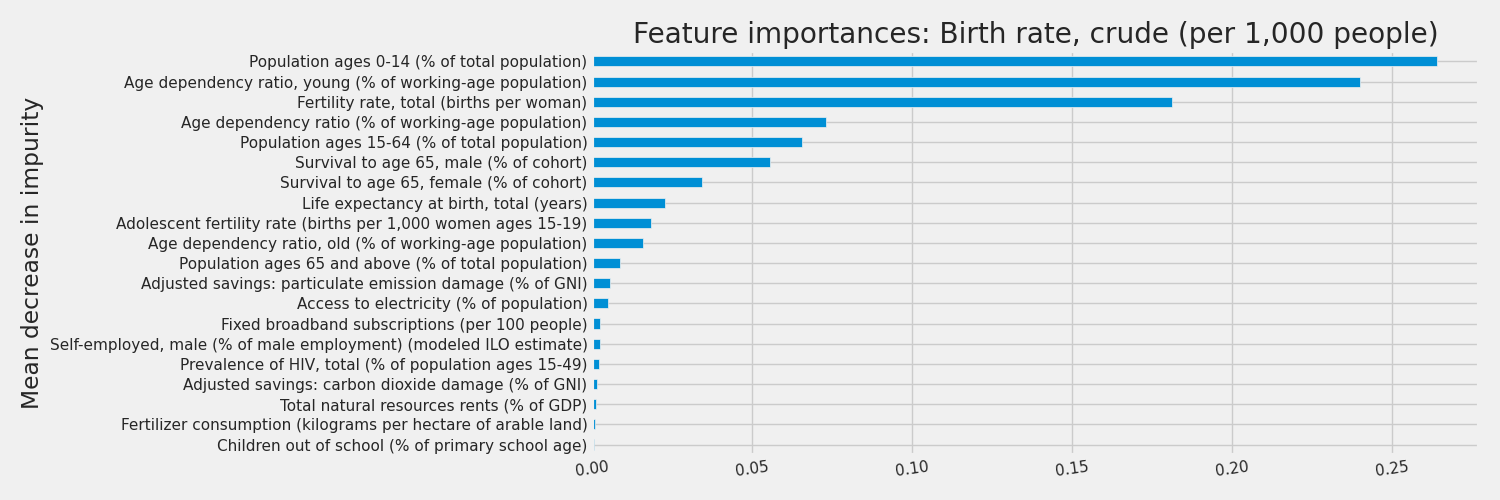
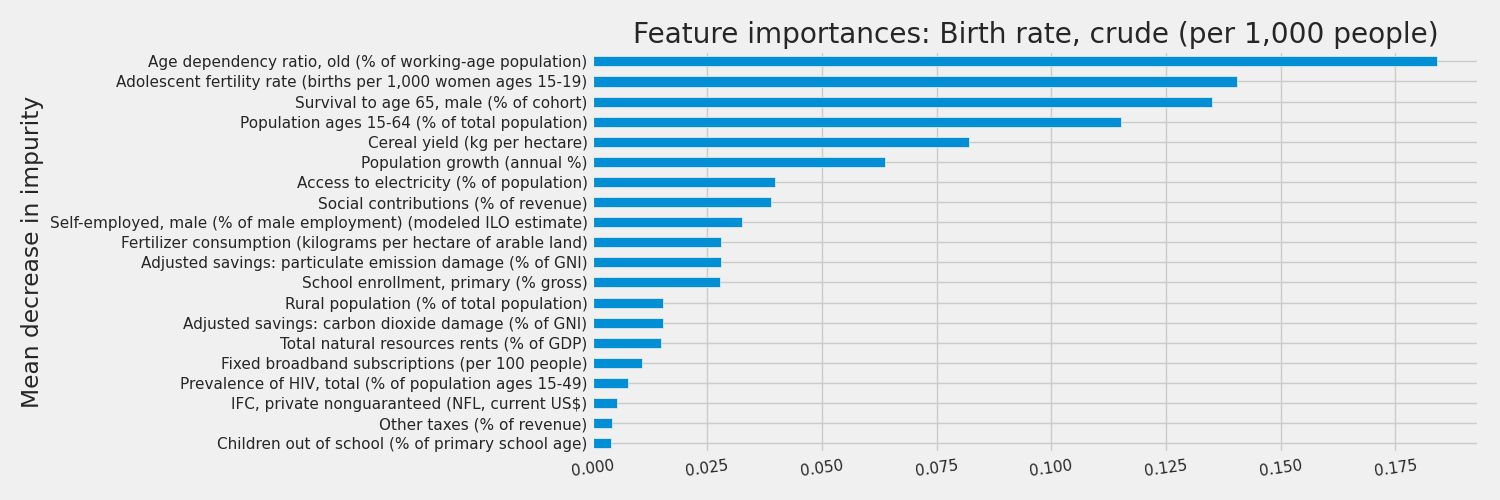
add secundary metric: zone

Changed region(s): [[0.0, 0.09, 0.9813, 0.96], [0.0, 0.48, 0.0307, 0.66], [0.0, 0.21, 0.0307, 0.39]]

diff --git a/src/explainability.py b/src/explainability.py
@@ -19,23 +19,16 @@ from sklearn.ensemble import RandomForestRegressor,GradientBoostingClassifier
 import xgboost as xgb
 
 import postprocess 
+import constants
 
-NUM_OF_FEATURES_TO_PLOT=20
 
 import math
-
+import model
+import json
+import utils
 
 def generate_feature_importance_images(target, X_train, X_test, Y_train, Y_test):
-    clf = xgb.XGBRegressor(objective ='reg:squarederror', colsample_bytree = 0.3, learning_rate = 0.05,
-                    max_depth = 5, alpha = 10, n_estimators = 300)
-    # fit the model
-    clf.fit(X_train,Y_train)
-
-
-    feature_importances = pd.Series(clf.feature_importances_, index=X_train.columns)
-    
-
-    feature_importances= feature_importances[feature_importances!=0].sort_values(ascending=False)[:NUM_OF_FEATURES_TO_PLOT].sort_values()
+    clf, feature_importances = model.get_feature_importances(X_train, Y_train)
 
     logger.info(f'{target} score: ' + str (clf.score(X_test,Y_test)))
     fig, ax = plt.subplots()
@@ -52,63 +45,76 @@ def generate_feature_importance_images(target, X_train, X_test, Y_train, Y_test)
     return clf,feature_importances
 
 
-TARGETS =  [ "Birth rate, crude (per 1,000 people)",
+
+
+
+TARGETS =  ["Inflation, consumer prices (annual %)",  "Pump price for diesel fuel (US$ per liter)",
+"Birth rate, crude (per 1,000 people)", "Researchers in R&D (per million people)", 
+    "Time required to build a warehouse (days)",
+    "Wage and salaried workers, total (% of total employment) (modeled ILO estimate)","Rural population (% of total population)", 
+  
     "Unemployment, total (% of total labor force) (modeled ILO estimate)", 
  "GDP per capita (constant LCU)" ,
- "Inflation, consumer prices (annual %)" ,
+
  "Self-employed, total (% of total employment) (modeled ILO estimate)" ,
   ]
 
 country="ESP"
+dict_features_to_consider = {}
+try :
+    dict_features_to_consider = postprocess.get_dict_features_to_consider()
+except: pass 
+    
 
 for target in TARGETS : 
     df = postprocess.process_df_target(target)
     logger.info(f"Shape: {df.shape} for:  {target} ")
 
-    Xtrain = df.drop(columns=target,axis=1)
-    Ytrain = df[target]
-    X_train,X_test,Y_train,Y_test = train_test_split(Xtrain,Ytrain,test_size=0.3,random_state=1200)
-   
-    clf,feature_importances = generate_feature_importance_images(target, X_train, X_test, Y_train, Y_test)
+    # Xtrain = df_feature_importances.drop(columns=target,axis=1) if target in df_feature_importances.columns else df_feature_importances
+ 
+    if target in dict_features_to_consider: 
+        features_to_consider = dict_features_to_consider[target]
+    else: 
+        features_to_consider = postprocess.calculate_features_consider( target )
 
 
-
-    features_to_consider = list(feature_importances.to_dict().keys())
-
+    df_feature_importances = postprocess.process_df_target(target)
     serie_to_explain = postprocess.get_enriched_estimation_to_explain(country,features_to_consider)
 
-    features_to_consider.append(target)
-    df_feature_importances = postprocess.process_df_target(target)[features_to_consider]
-    Xtrain = df_feature_importances.drop(columns=target,axis=1)
+   
+    Xtrain = df_feature_importances[features_to_consider]
     Ytrain = df_feature_importances[target]
-    X_train,X_test,Y_train,Y_test = train_test_split(Xtrain,Ytrain,test_size=0.3,random_state=1200)
-    clf,feature_importances = generate_feature_importance_images(target, X_train, X_test, Y_train, Y_test)
+    #X_train,X_test,Y_train,Y_test = train_test_split(Xtrain,Ytrain,test_size=0.3,random_state=1200)
+    clf = model.get_model(Xtrain, Ytrain)
 
+    df_means = pd.read_csv("data/df_means.csv")
+    zone = utils.get_country_data(country)["Region"]
+    df_zone = df_means.query( " `Zone` == @zone ").drop("Zone",axis=1)
+    zone_features = df_zone[features_to_consider].to_dict(orient="records")[0]
     shap.initjs()
     explainer = shap.TreeExplainer(clf) 
-    shap_values = explainer.shap_values(X_train)
+    shap_values = explainer.shap_values(Xtrain)
 
-    #clf.predict(serie_to_explain)
-    clf_expected_value = clf.predict(pd.DataFrame([serie_to_explain.to_dict()]))    
-    shap_values = explainer.shap_values(pd.DataFrame([serie_to_explain.to_dict()]))
+
+    #clf_expected_value = clf.predict(pd.DataFrame([serie_to_explain.to_dict()]))    
+    shap_values = explainer.shap_values(pd.DataFrame([serie_to_explain.to_dict(),zone_features]))
 
     shap.decision_plot(explainer.expected_value, 
-            shap_values[0,:],serie_to_explain,  highlight=0, title=target,
+            shap_values,serie_to_explain,  
+            highlight=0, title=f"Predictors for estimating: {target}, {country}",
             feature_names = np.array (serie_to_explain.index),
+            legend_labels=[country,zone],legend_location='lower right',
             auto_size_plot=True, link = "identity",
-            feature_display_range=slice(None, -1 * NUM_OF_FEATURES_TO_PLOT, -1 )) 
+            feature_display_range=slice(None, -1 * constants.NUM_OF_FEATURES_TO_PLOT, -1 )) 
     a = 0   
-# shap.decision_plot(explainer.expected_value, 
-#         shap_values[0,:],X_train.iloc[0,:],  highlight=0, title=target,
-#         feature_names = np.array (X_train.iloc[0,:].index),
-#         auto_size_plot=True, link = "identity",
-#         feature_display_range=slice(None, -1 * NUM_OF_FEATURES_TO_PLOT, -1 )) 
+
+
         
-plt.title(target)
-plt.show()
+# plt.title(target)
+# plt.show()
 
 
-force_plot_html = shap.force_plot(explainer.expected_value, shap_values[0,:], X_train.iloc[0,:]).html()
-shap_html = f"<head>{shap.getjs()}</head><body>{force_plot_html}</body>"
+# force_plot_html = shap.force_plot(explainer.expected_value, shap_values[0,:], X_train.iloc[0,:]).html()
+# shap_html = f"<head>{shap.getjs()}</head><body>{force_plot_html}</body>"
 
 

diff --git a/src/postprocess.py b/src/postprocess.py
@@ -7,6 +7,7 @@ import seaborn as sns
 sns.set(rc={'figure.figsize':(15,5)})
 plt.style.use('fivethirtyeight')
 from loguru import logger
+import json
 
 ######----------For Feature Selection and Modeling
 from sklearn.feature_selection import SelectFromModel
@@ -18,9 +19,9 @@ import shap
 from sklearn.ensemble import RandomForestRegressor,GradientBoostingClassifier
 import xgboost as xgb
 import math
-
-
-NUM_OF_FEATURES_TO_PLOT=20
+import model
+import utils
+from tqdm import tqdm                                                                                                                                                                                                                                                                                                                                                                                                                                                                                                                                                                                              
 
 def get_preprocessed_df() -> pd.DataFrame :
     df = pd.read_csv("data/df_all.csv")
@@ -75,3 +76,136 @@ def process_df_target(target):
         df[column].fillna(int(df[column].mean()), inplace=True)
 
     return df
+
+
+
+TARGETS =  [ "Birth rate, crude (per 1,000 people)",
+    "Unemployment, total (% of total labor force) (modeled ILO estimate)", 
+ "GDP per capita (constant LCU)" ,
+ "Inflation, consumer prices (annual %)" ,
+ "Self-employed, total (% of total employment) (modeled ILO estimate)" ,
+  ]
+
+country="ESP"
+
+target = TARGETS[0]
+
+
+
+from statsmodels.stats.outliers_influence import variance_inflation_factor
+from statsmodels.tools.tools import add_constant
+
+# compute the vif for all given features
+def compute_vif(df,considered_features):
+    
+    X = df[considered_features]
+    # the calculation of variance inflation requires a constant
+    X['intercept'] = 1
+    
+    # create dataframe to store vif values
+    vif = pd.DataFrame()
+    vif["Variable"] = X.columns
+    vif["VIF"] = [variance_inflation_factor(X.values, i) for i in range(X.shape[1])]
+    vif = vif[vif['Variable']!='intercept']
+    return vif
+
+# Remove las column
+
+def get_vif_features(df,target=None,considered_features=[]):
+    """ Remove those features with a vif < 5"""
+    logger.info(f"Shape: {df.shape} for:  {target} ")
+
+    if not target :
+        target = list(df.columns)[-1]
+
+    # exclude target feature
+    if target in df.columns:
+        del df[target]   
+
+    if len (considered_features) == 0 :
+        considered_features = list(df.columns)
+
+    df = df[considered_features]
+    # compute vif 
+    vif = compute_vif(df, considered_features).sort_values('VIF', ascending=False)
+
+    while max(vif.VIF.values) > 5:
+    # remove first column
+        feature_to_remove = vif.Variable.values[0]
+        logger.info(feature_to_remove)
+        considered_features.remove(feature_to_remove)
+        vif = compute_vif(df, considered_features).sort_values('VIF', ascending=False)
+
+    return vif
+
+
+
+
+
+DEFAULT_NUMBER_OF_FEATURES = 30
+
+dict_features_to_consider  = {}
+# for each of the feature
+def calculate_features_consider( target , number_of_features=DEFAULT_NUMBER_OF_FEATURES, df=None):
+    if not(df is not None):
+        df = process_df_target(target)
+    Xtrain = df.drop(columns=target,axis=1)
+    Ytrain = df[target]
+    clf,considered_features = model.get_feature_importances(Xtrain, Ytrain,number_of_features=number_of_features)
+    vif = get_vif_features(df,target=None,considered_features=list(considered_features.index))
+    return  list(vif.Variable.values)
+
+def generate_dic_features_to_consider(number_of_features=DEFAULT_NUMBER_OF_FEATURES,df = None):
+
+    features_to_clean =  [ "Rural population (% of total population)", 
+    "Birth rate, crude (per 1,000 people)",
+    "Unemployment, total (% of total labor force) (modeled ILO estimate)", 
+    "GDP per capita (constant LCU)" ,
+    "Inflation, consumer prices (annual %)" ,
+    "Self-employed, total (% of total employment) (modeled ILO estimate)" ,
+    ]
+
+    # df_start = get_preprocessed_df()
+    # features_to_clean = df_start.columns 
+    for target in tqdm(features_to_clean) :
+        df = process_df_target(target)
+        features_to_consider = calculate_features_consider(  target , number_of_features,df)
+        dict_features_to_consider[ target ] = features_to_consider
+
+    with open('data/features_to_consider.json', 'w') as fp:
+        json.dump(dict_features_to_consider, fp, sort_keys=True, indent=4)
+    return dict_features_to_consider
+
+def get_dict_features_to_consider():
+    try :
+        with open('data/features_to_consider.json') as json_file:
+            data = json.load(json_file)
+    except Exception as e :
+        logger.exception(e)
+        data = {}
+    finally :
+        return data 
+
+def generate_zone_average_value():
+
+    df = get_preprocessed_df()
+    mappings = utils.get_country_zones_mapping()
+    df['Zone'] = df['Country Code'].map(mappings) 
+    zones = [ zone for zone in set(mappings.values()) if not zone != zone ] 
+    results = []
+
+    COLUMNS_TO_REMOVE = ['Unnamed: 0',"Year", 'Country Code']
+    for column in COLUMNS_TO_REMOVE: 
+        if column in df.columns :
+                del df[column]    
+
+    df_means  = df.groupby(['Zone']).mean()
+    df_means.to_csv("data/df_means.csv")
+    return df_means
+
+#if __name__ == "__main__":
+    #logger.info("generate_dic_features_to_consider")
+    #generate_dic_features_to_consider() 
+    #logger.info("generate_zone_average_value")
+    #generate_zone_average_value()
+    

diff --git a/src/generate-dataset.py b/src/generate-dataset.py
@@ -1,9 +1,9 @@
 import pandas as pd
+from loguru import logger
 
 from tqdm import tqdm                                                                                                                                                                                                                                                                                                                                                                                                                                                                                                                                                                                              
 
-
-
+import postprocess
 def get_original_data() -> pd.DataFrame:
     df = pd.read_csv("data/WDIData.csv")
     return df
@@ -54,6 +54,12 @@ def generate_trasversed_data() -> pd.DataFrame :
     return df_all.to_csv("data/df_all.csv")
     
 
+logger.info("Start")
 # regenerate data
 df = generate_trasversed_data()
 
+logger.info("generate_dic_features_to_consider")
+postprocess.generate_dic_features_to_consider() 
+logger.info("generate_zone_average_value")
+postprocess.generate_zone_average_value()
+logger.info("End")

diff --git a/src/utils.py b/src/utils.py
@@ -1,0 +1,31 @@
+import pandas as pd
+import os
+import numpy as np 
+
+
+def get_country_df() :
+    df = pd.read_csv("data/WDICountry.csv")
+    return df
+
+def get_country_zones_mapping():
+    df = pd.read_csv("data/WDICountry.csv")
+    df = df[["Country Code", "Region"]]
+    df = df.set_index("Country Code")
+    mappings  = df.to_dict()["Region"]
+    return mappings 
+    
+    
+def get_country_data(country):
+    """ Return data for a given country"""
+    df = get_country_df()
+    country_dict = df.query( " `Country Code` == @country ").to_dict(orient="records")[0]
+    return country_dict
+
+
+def get_countries_from_same_region(country):
+    """ Return countries of the same region for a given country """
+    country_dict = get_country_data(country)
+    region = country_dict['Region']
+    all_countries = pd.read_csv("data/WDICountry.csv")
+    countries = all_countries.query( " `Region`== @region ")[ "Country Code" ].values
+    return countries

diff --git a/src/model.py b/src/model.py
@@ -1,0 +1,20 @@
+import xgboost as xgb
+import constants 
+import pandas as pd
+def get_model(X_train, Y_train):
+    clf = xgb.XGBRegressor(objective ='reg:squarederror', colsample_bytree = 0.3, learning_rate = 0.05,
+                    max_depth = 5, alpha = 10, n_estimators = 300)
+    # fit the model
+    clf.fit(X_train,Y_train)
+    return clf
+
+
+def get_feature_importances(X_train, Y_train,number_of_features=constants.NUM_OF_FEATURES_TO_PLOT):
+    """ Get N feature importances for a given model"""
+    clf = get_model(X_train, Y_train)
+
+    feature_importances = pd.Series(clf.feature_importances_, index=X_train.columns)
+    
+
+    feature_importances= feature_importances[feature_importances!=0].sort_values(ascending=False)[:number_of_features].sort_values()
+    return clf,feature_importances

diff --git a/src/constants.py b/src/constants.py
@@ -1,0 +1,3 @@
+
+
+NUM_OF_FEATURES_TO_PLOT=12
